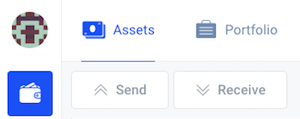
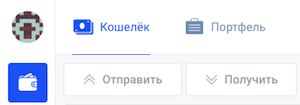
Updates

diff --git a/ru/waves-client/transfers-and-gateways/asset-transfers.md b/ru/waves-client/transfers-and-gateways/asset-transfers.md
@@ -1,49 +1,40 @@
-# How to send and receive Asset
+# **Как отправить и получить Ассет**.
 
-## **How to send Asset**
+## **Как отправить Ассет**.
 
-Open up your Waves wallet.  
-At the top left corner click on the **Send** button.
+Откройте Waves кошелек.
 
-![](/_assets/asset_transfers_01.png)
+Затем нажмите Отправить (левый верхний угол).
 
-The following pop-up will appear.
+![](/ru/_assets/asset_transfers_01.png)
 
-In the **Currency** field, select Asset that you want to send. Then click on it.
+В появившемся окне заполните форму вывода Ассета:
 
-![](/_assets/asset_transfers_02.png)
+- в поле **Валюта** выберите Ассет, который хотите вывести;
+- в поле **Получатель** введите Waves адрес получателя;
+- в поле **Количество** введите сумму вывода;
+- в поле **Описание** введите любую информацию (по необходимости).
 
-Fill in the sending form
+После ввода всей необходимой информации нажмите **Продолжить**.
 
-* **Recipient**: Enter the recipient Waves address.
-* **Amount**: Define a number of selected Asset you want to send.
-* **Description**: Optional. You can write a message for the recipient in the Description field.
-* **Note**: Some exchanges require users to include description when depositing assets. Otherwise, they cannot credit your account.
+![](/ru/_assets/asset_transfers_02.png)
 
-After you have entered all necessary information, click on the **Continue** button.
+Проверьте правильность введенной информации в появившемся окне.
 
-![](/_assets/asset_transfers_03.png)
+После проверки нажмите **Подтвердить** (или **Назад** если есть ошибка).
 
-The following pop-up will appear.
+![](/ru/_assets/asset_transfers_03.png)
 
-Re-check entered data and click on the **Confirm** button.
+## **Как получить Ассет**.
 
-![](/_assets/asset_transfers_04.png)
+В свой Waves аккаунт вы можете ввести не только токены Waves, но и другие токены, которые созданы на Waves платформе.
 
-## **How to receive Asset**
+Для этого, вам потребуется только ваш Waves адрес. Используйте его в качестве Получателя для отправки средств из другого Waves аккаунта или из биржи.
 
-Think of the Waves account as a multi-wallet. It, obviously, supports Waves and also any other token existing on the Waves blockchain.
+Откройте ваше Waves приложение. В верхнем левом углу нажмите на аватар вашей учетной записи.
 
-Whenever you want to receive Waves based asset, just hand your personal Waves address to the sender and he is able to execute the transaction.
+![](/ru/_assets/asset_transfers_05.png)
 
-Open your Waves wallet. At the top left corner click on the avatar of your account.
+После этого появится окно с вашим Waves адресом. Используйте его для отправки средств в ваш Waves аккаунт.
 
-![](/_assets/asset_transfers_05.png)
-
-The following pop-up will appear.
-
-There you will find the Waves address of your account.
-
-![](/_assets/asset_transfers_06.png)
-
-Copy the shown Waves address and use it as recipient address.
+![](/ru/_assets/asset_transfers_06.png)

diff --git a/ru/waves-client/transfers-and-gateways/waves-transfers.md b/ru/waves-client/transfers-and-gateways/waves-transfers.md
@@ -3,7 +3,7 @@
 ## **Как отправить Waves**.
 
 Откройте Waves кошелек.
-Затем нажмите **Отправить** на главной странице приложения (раздет Waves).
+Затем нажмите **Отправить** на главной странице приложения (раздел Waves).
 
 ![](/ru/_assets/waves_transfers_01.png)
 
